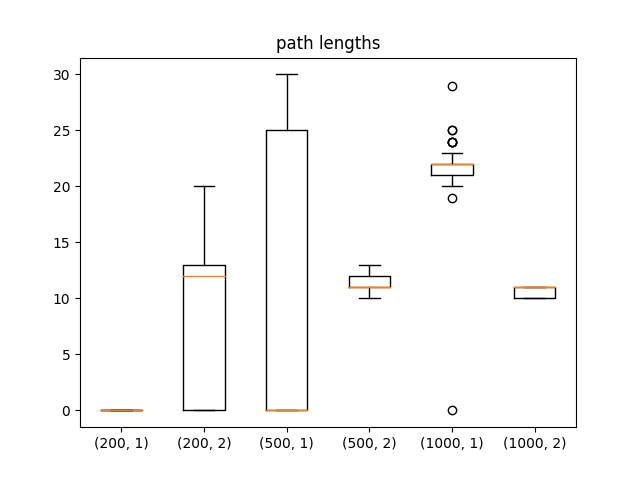
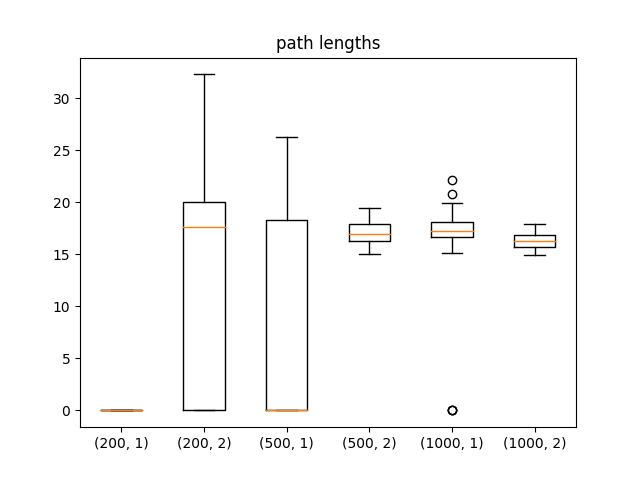
Finalize

diff --git a/benchmark.py b/benchmark.py
@@ -1,7 +1,20 @@
 import matplotlib.pyplot as plt
-
+import math
 from main import get_input_a, get_input_b, get_input_c
 from prm import PRM
+
+
+def compute_path_lenght(path):
+    i = 0
+    length = 0
+    while i < len(path):
+        point = path[i].point
+        if i == len(path) - 1:
+            break
+        next_point = path[i+1].point
+        length += math.dist(point, next_point)
+        i += 1
+    return length
 
 
 def get_a_n_r_list():
@@ -14,8 +27,8 @@ def get_b_c_n_r_list():
 
 def benchmark():
     # to override n and r further
-    _, _, start, goal, x_range, y_range, obstacles = get_input_c()
-    n_r_list = get_b_c_n_r_list()
+    _, _, start, goal, x_range, y_range, obstacles = get_input_a()
+    n_r_list = get_a_n_r_list()
 
     solutions = {}
     for n_r in n_r_list:
@@ -40,10 +53,9 @@ def benchmark():
         for _ in range(0, 100):
             prm = PRM(n, r, start, goal, x_range, y_range, obstacles)
             path, _, computation_time, _, _, _, found_solution = prm.path_planning()
+            # path = prm.smooth_pathing()
 
-            path = prm.smooth_pathing()
-
-            path_lengths.append(len(path) - 1)
+            path_lengths.append(compute_path_lenght(path))
             computation_times.append(computation_time)
             solutions[n_r][found_solution] += 1
 
@@ -59,7 +71,7 @@ def benchmark():
 
     plt.boxplot(box_plot_path, labels=labels)
     plt.title("path lengths")
-    # plt.savefig(f"plots_again/path_lengths_benchmark.png")
+    plt.savefig(f"plots_again/path_lengths_benchmark.png")
     plt.show()
     plt.clf()
     plt.cla()

diff --git a/draw.py b/draw.py
@@ -1,5 +1,20 @@
 import matplotlib.pyplot as plt
 
+import math
+
+def compute_path_lenght(path):
+    i = 0
+    length = 0
+    while i < len(path):
+        point = path[i].point
+        if i == len(path) - 1:
+            break
+        next_point = path[i+1].point
+        length += math.dist(point, next_point)
+        i += 1
+    return length
+
+
 def draw_map(graph, start, goal, x_range, y_range, obstacles, path):
     plt.xlim(x_range[0], x_range[1])
     plt.ylim(y_range[0], y_range[1])
@@ -13,7 +28,7 @@ def draw_map(graph, start, goal, x_range, y_range, obstacles, path):
         x, y = obstacle.exterior.xy
         plt.plot(x, y, color='red')
 
-    plt.title(f"Path length: {len(path) - 1}")
+    plt.title(f"Path length: {compute_path_lenght(path)}")
 
     # draw path
     i = 0

diff --git a/main.py b/main.py
@@ -50,12 +50,12 @@ def get_input_c():
 
 
 if __name__ == "__main__":
-    n, r, start, goal, x_range, y_range, obstacles = get_input_c()
+    n, r, start, goal, x_range, y_range, obstacles = get_input_a()
     prm = PRM(n, r, start, goal, x_range, y_range, obstacles)
+    
     prm.path_planning()
-
-    # prm.draw_map()
-    prm.smooth_pathing()
     # prm.draw_map()
 
+    # prm.smooth_pathing()
+    prm.draw_map()
     prm.print_details()

diff --git a/README.md b/README.md
@@ -1,0 +1,14 @@
+# PRM
+
+## Run
+Go to `main.py`, in `if __name__ = '__main__'` part, you can indicate the input you want to run, whether you want smooth pathing and whether you want to show the map and print the details. After that enter:
+
+`python main.py`
+
+## Benchmark
+Go to `benchmark.py`, on line 30 and 31 indicate the input you want to benchmark, and on line 56 indicate whether you want smooth pathing or not. After that enter:
+
+`python benchmark.py`
+
+## plots
+the already generated plots are also in the current directory. 
